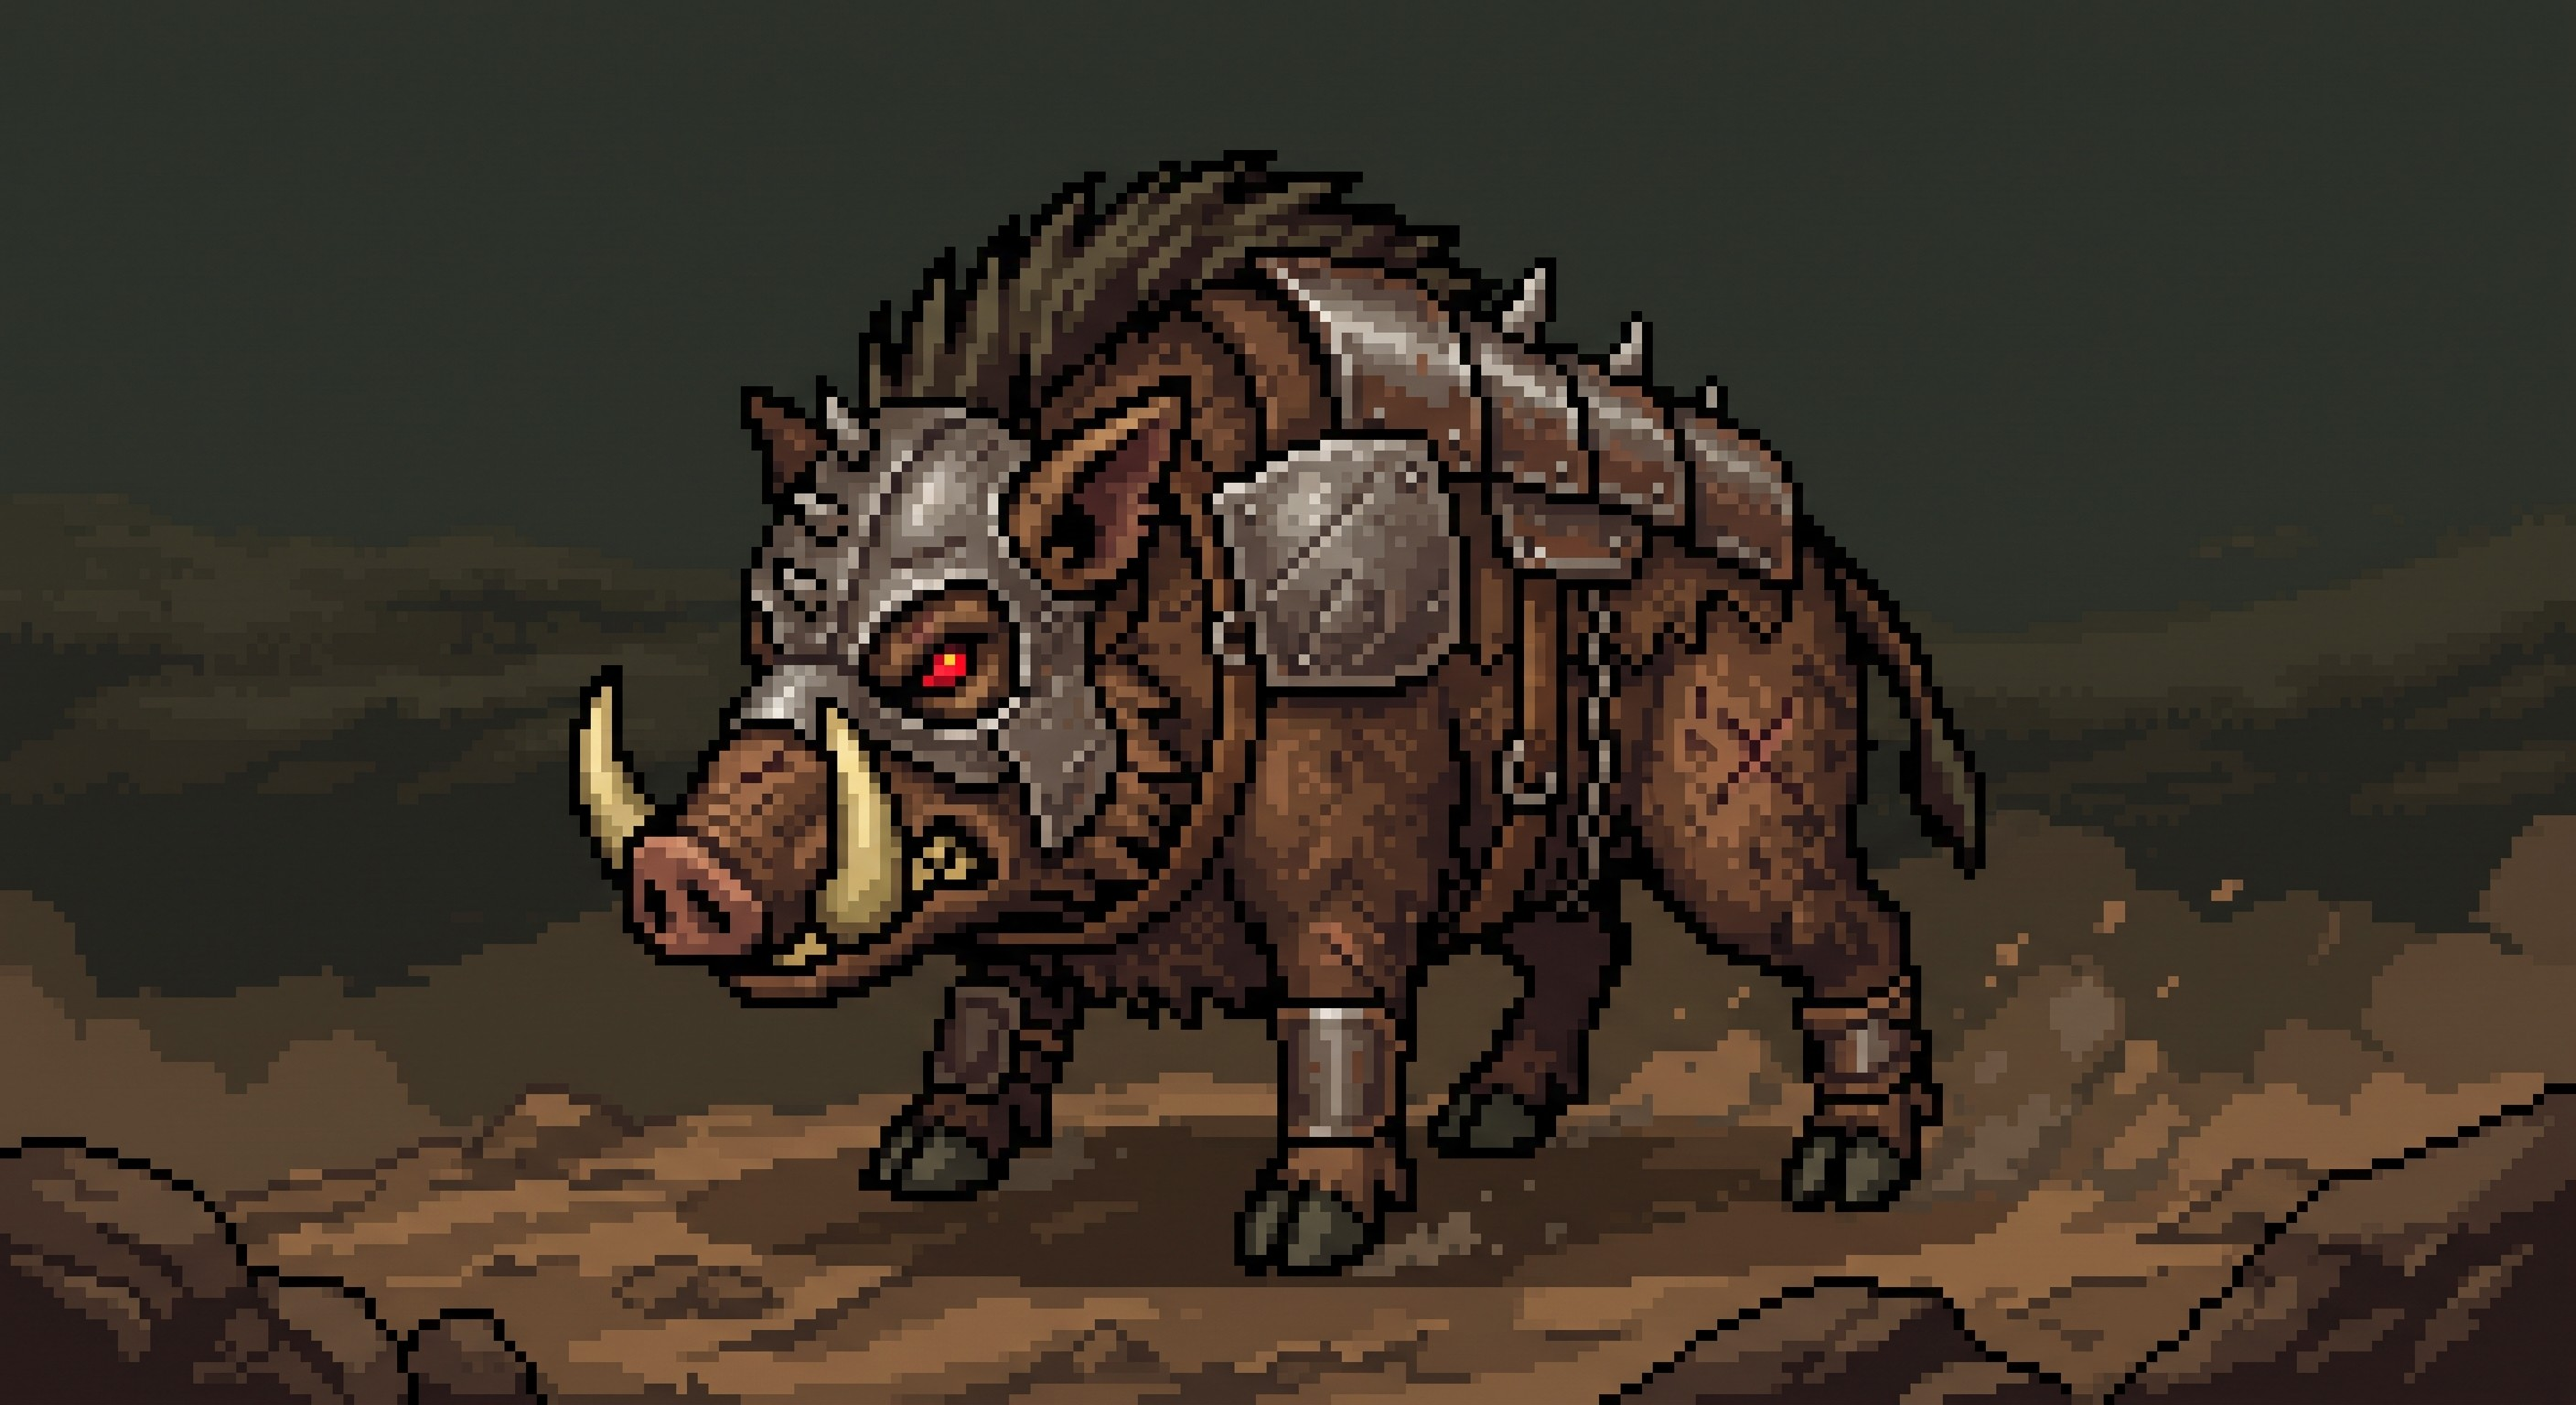
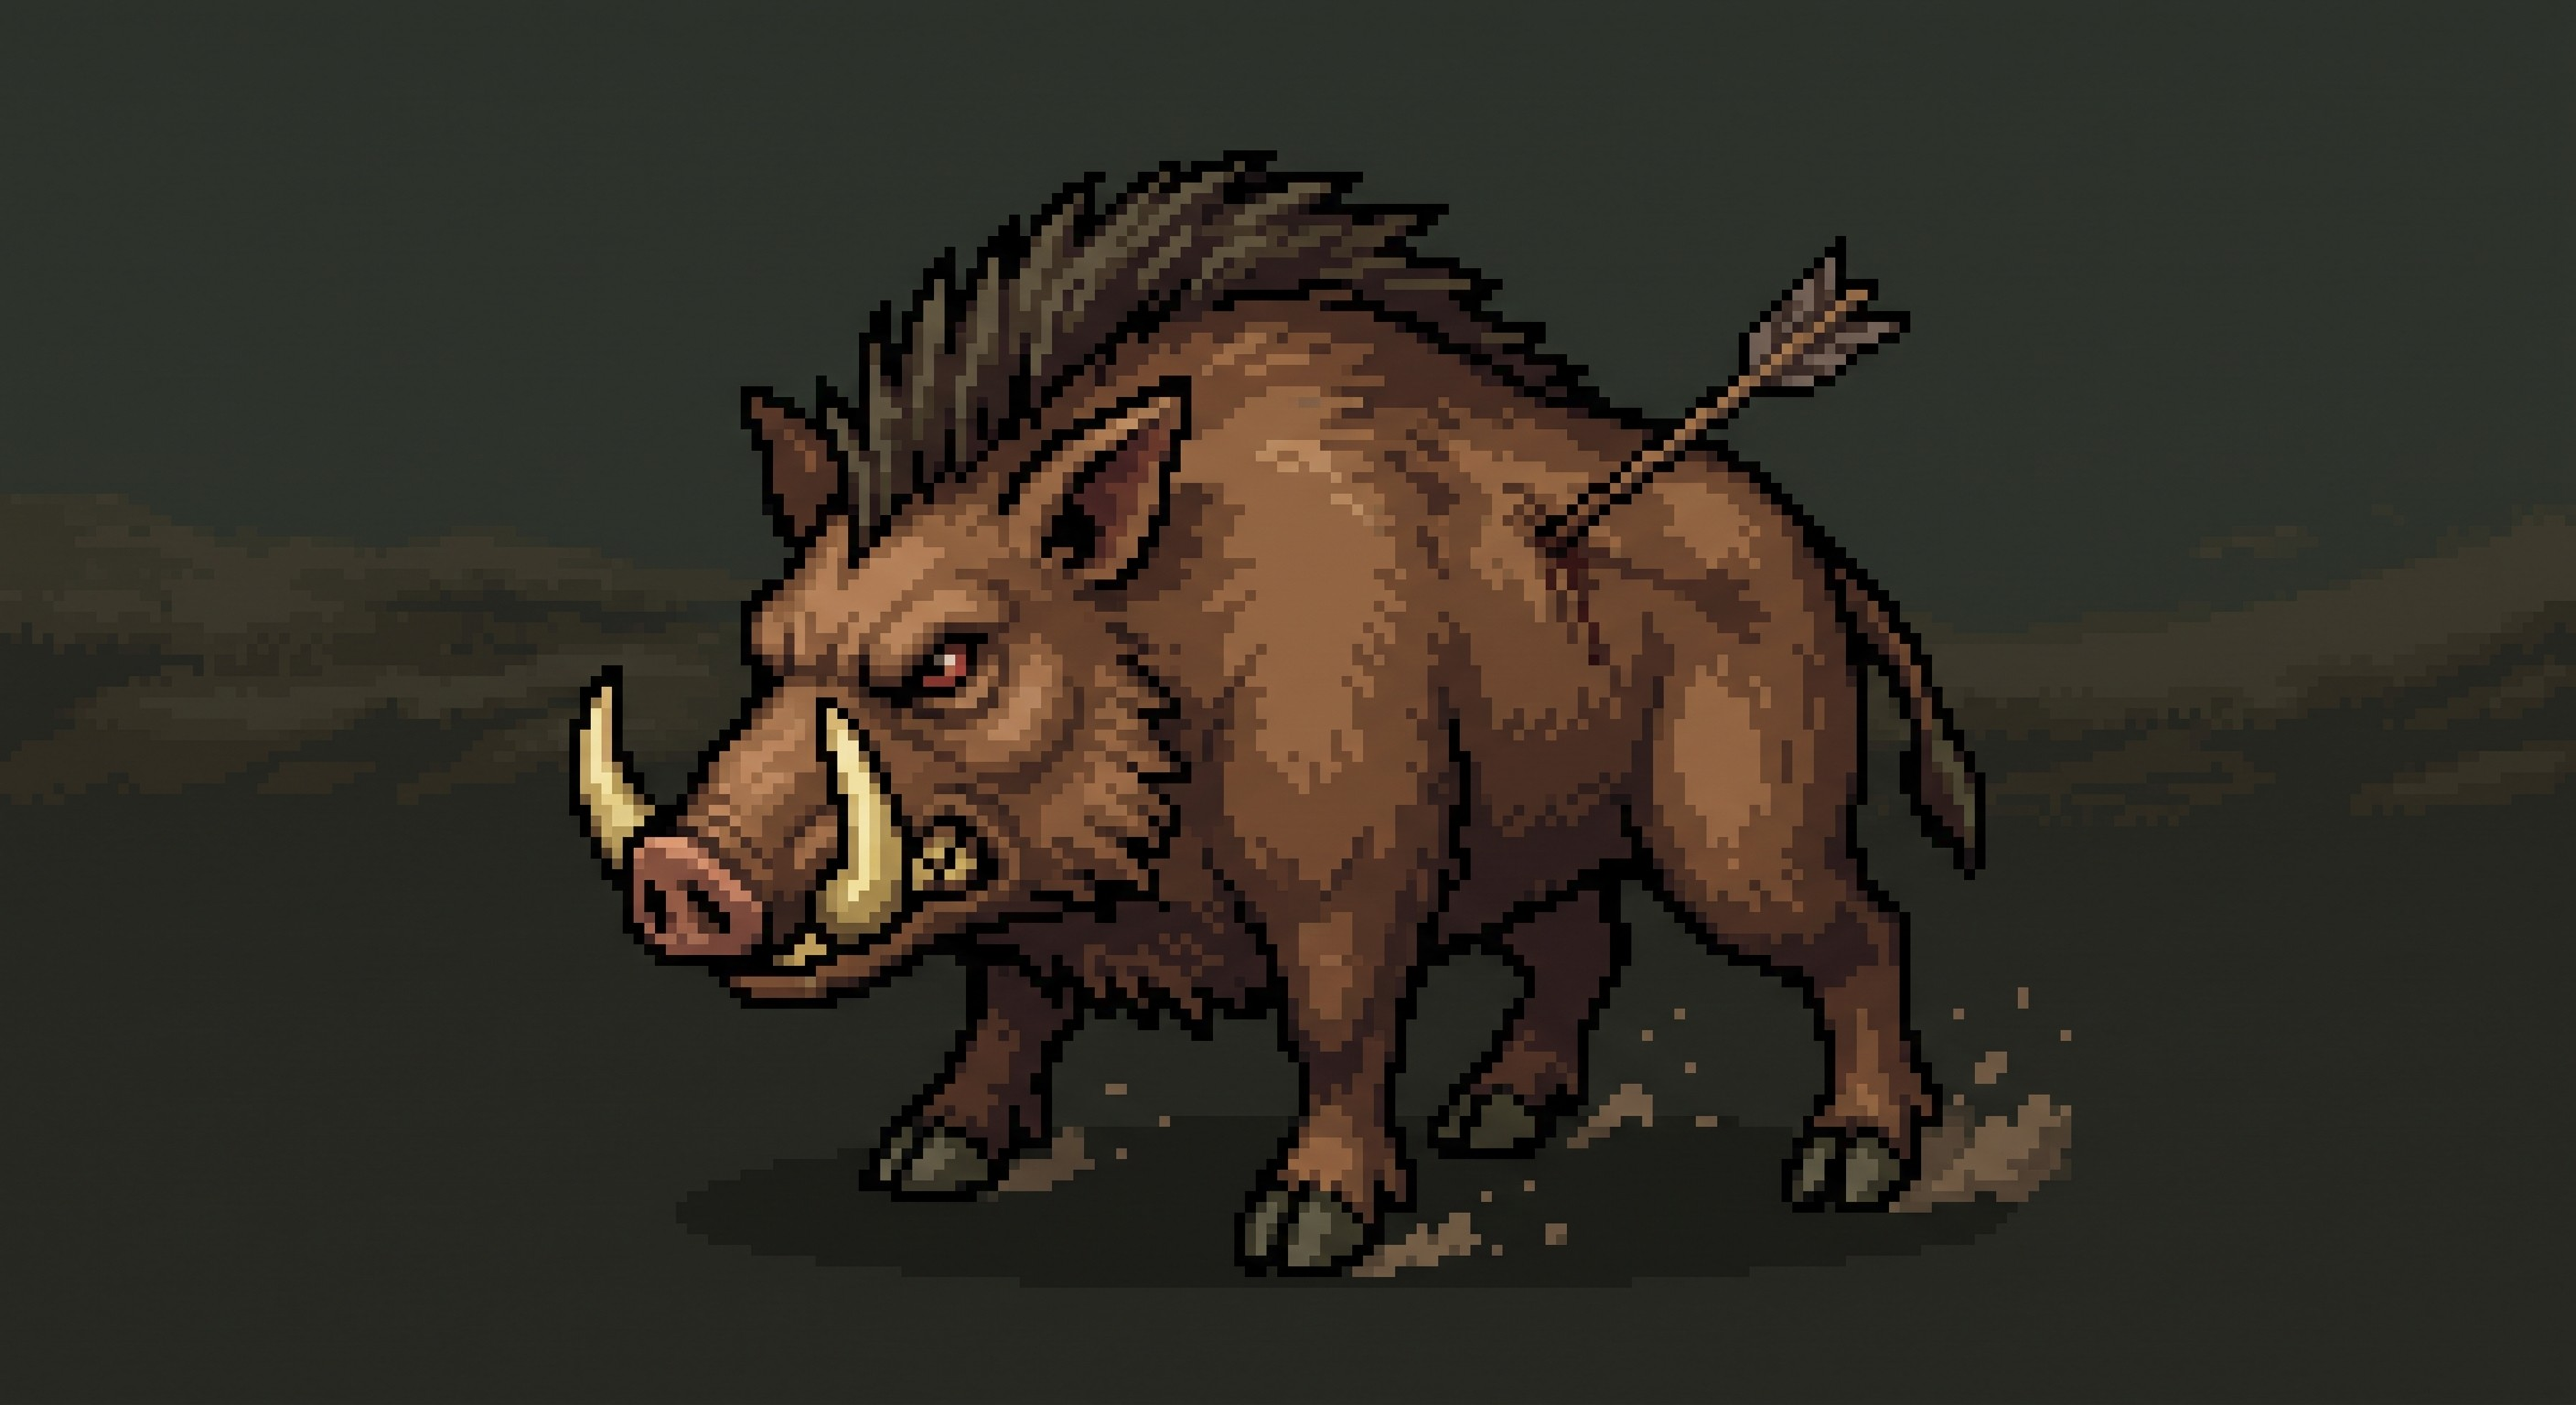
NPCs: WoW Classic boars with English names + stats rebalance (#16)
- 4 boars matching WoW zones: Elwynn (3-5) and Redridge (12-15)
- Mottled Boar (3), Dire Boar (5), Great Goretusk (12), Elder Goretusk (15)
- HP/armor/damage adjusted to WoW Classic values
- New images for level 12 and 15 boars
- Attack names in English: Charge, Bite, Gore, Savage Bite, Trample

diff --git a/js/npc-registry.js b/js/npc-registry.js
@@ -1,43 +1,59 @@
 window.NPC_REGISTRY = window.NPC_REGISTRY || {};
 
-window.NPC_REGISTRY['young_boar'] = {
-  name: 'Cerdo Joven',
+window.NPC_REGISTRY['mottled_boar'] = {
+  name: 'Mottled Boar',
   icon: '🐗',
   imageUrl: 'img/enemies/boar_young.jpg',
-  level: 2,
-  hp: 120,
-  armor: 15,
+  level: 3,
+  hp: 85,
+  armor: 10,
   magicResist: 0,
   attacks: [
-    { name: 'Embestida', min: 5, max: 8, type: 'physical' },
+    { name: 'Charge', min: 4, max: 7, type: 'physical' },
+    { name: 'Bite', min: 3, max: 5, type: 'physical' },
   ],
 };
 
 window.NPC_REGISTRY['dire_boar'] = {
-  name: 'Jabalí Feroz',
+  name: 'Dire Boar',
   icon: '🐗',
   imageUrl: 'img/enemies/boar_dire.jpg',
   level: 5,
-  hp: 280,
-  armor: 30,
+  hp: 152,
+  armor: 20,
   magicResist: 5,
   attacks: [
-    { name: 'Embestida', min: 12, max: 18, type: 'physical' },
-    { name: 'Mordisco', min: 8, max: 14, type: 'physical' },
+    { name: 'Charge', min: 7, max: 12, type: 'physical' },
+    { name: 'Bite', min: 5, max: 9, type: 'physical' },
   ],
 };
 
-window.NPC_REGISTRY['enraged_boar'] = {
-  name: 'Jabalí Enfurecido',
+window.NPC_REGISTRY['great_goretusk'] = {
+  name: 'Great Goretusk',
   icon: '🐗',
-  imageUrl: 'img/enemies/boar_enraged.jpg',
-  level: 10,
-  hp: 650,
+  imageUrl: 'img/enemies/boar_goretusk.jpg',
+  level: 12,
+  hp: 412,
+  armor: 40,
+  magicResist: 10,
+  attacks: [
+    { name: 'Gore', min: 14, max: 22, type: 'physical' },
+    { name: 'Savage Bite', min: 10, max: 18, type: 'physical' },
+    { name: 'Trample', min: 8, max: 26, type: 'physical' },
+  ],
+};
+
+window.NPC_REGISTRY['elder_goretusk'] = {
+  name: 'Elder Goretusk',
+  icon: '🐗',
+  imageUrl: 'img/enemies/boar_elder_goretusk.jpg',
+  level: 15,
+  hp: 585,
   armor: 55,
   magicResist: 15,
   attacks: [
-    { name: 'Embestida Salvaje', min: 25, max: 38, type: 'physical' },
-    { name: 'Mordisco Furioso', min: 18, max: 30, type: 'physical' },
-    { name: 'Aplastar', min: 15, max: 45, type: 'physical' },
+    { name: 'Gore', min: 20, max: 32, type: 'physical' },
+    { name: 'Savage Bite', min: 15, max: 25, type: 'physical' },
+    { name: 'Trample', min: 12, max: 38, type: 'physical' },
   ],
 };
